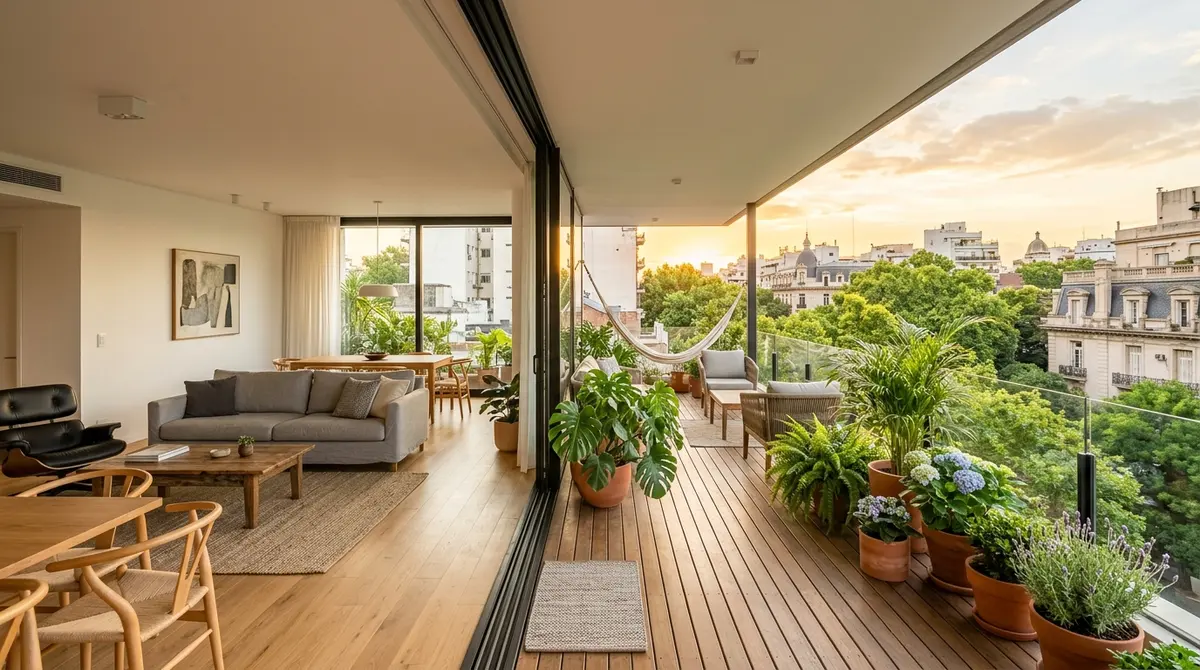
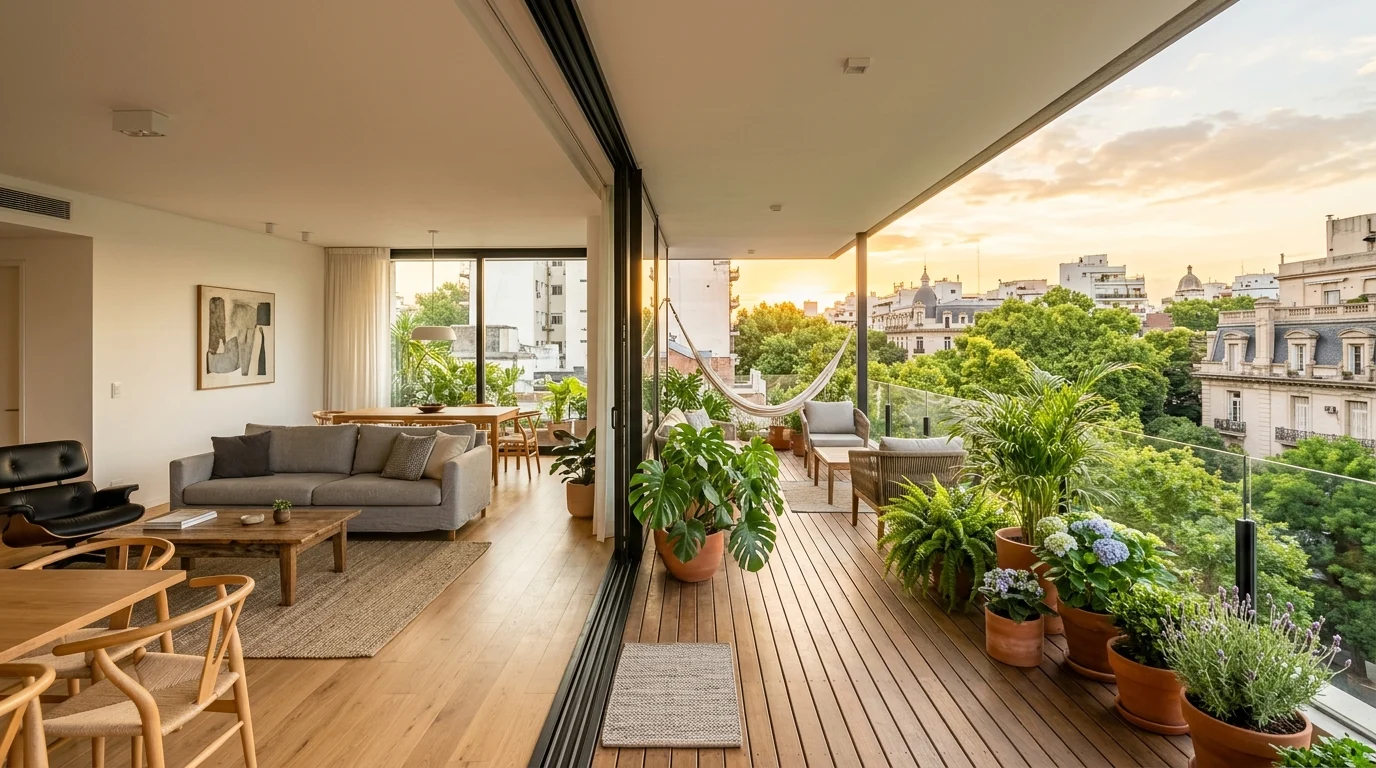
perf: elevar fidelidad de imágenes de propiedades y hero a WebP alta resolución

diff --git a/next.config.ts b/next.config.ts
@@ -9,9 +9,8 @@ const nextConfig: NextConfig = {
   images: {
     // AVIF primero: la casa del hero del inicio es el LCP y pesa la mitad que en WebP.
     formats: ["image/avif", "image/webp"],
-    // Next 16 exige declarar las calidades. 55: la casa del hero (una foto grande, sin texto
-    // chico encima); 75: el resto.
-    qualities: [55, 75],
+    // Next 16 exige declarar las calidades permitidas.
+    qualities: [55, 75, 80, 85, 95],
   },
   async headers() {
     return [

diff --git a/src/components/inicio/hero.tsx b/src/components/inicio/hero.tsx
@@ -20,7 +20,7 @@ function Casa({ recorte = false }: { recorte?: boolean }) {
     width: FOTO_DE_LA_CASA.ancho,
     height: FOTO_DE_LA_CASA.alto,
     sizes: SIZES,
-    quality: 55,
+    quality: 80,
   }
   return (
     <span
